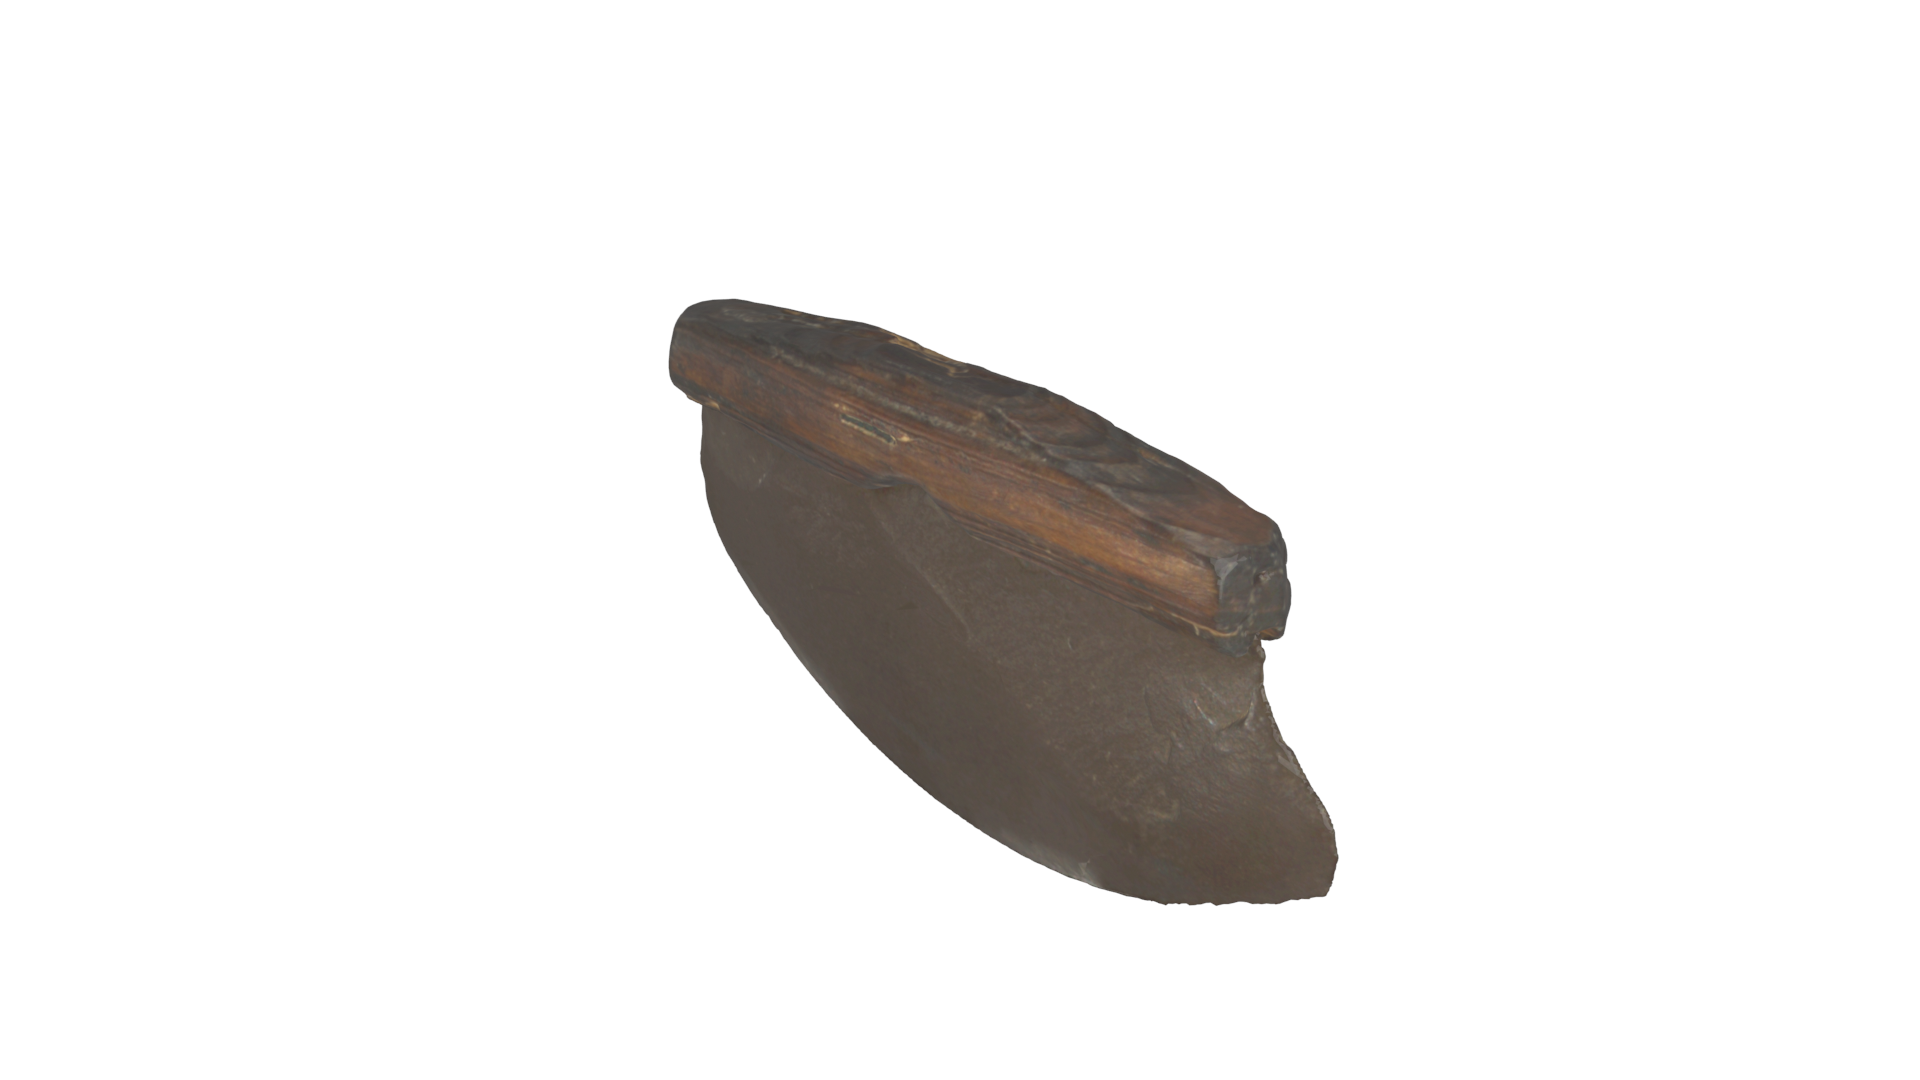
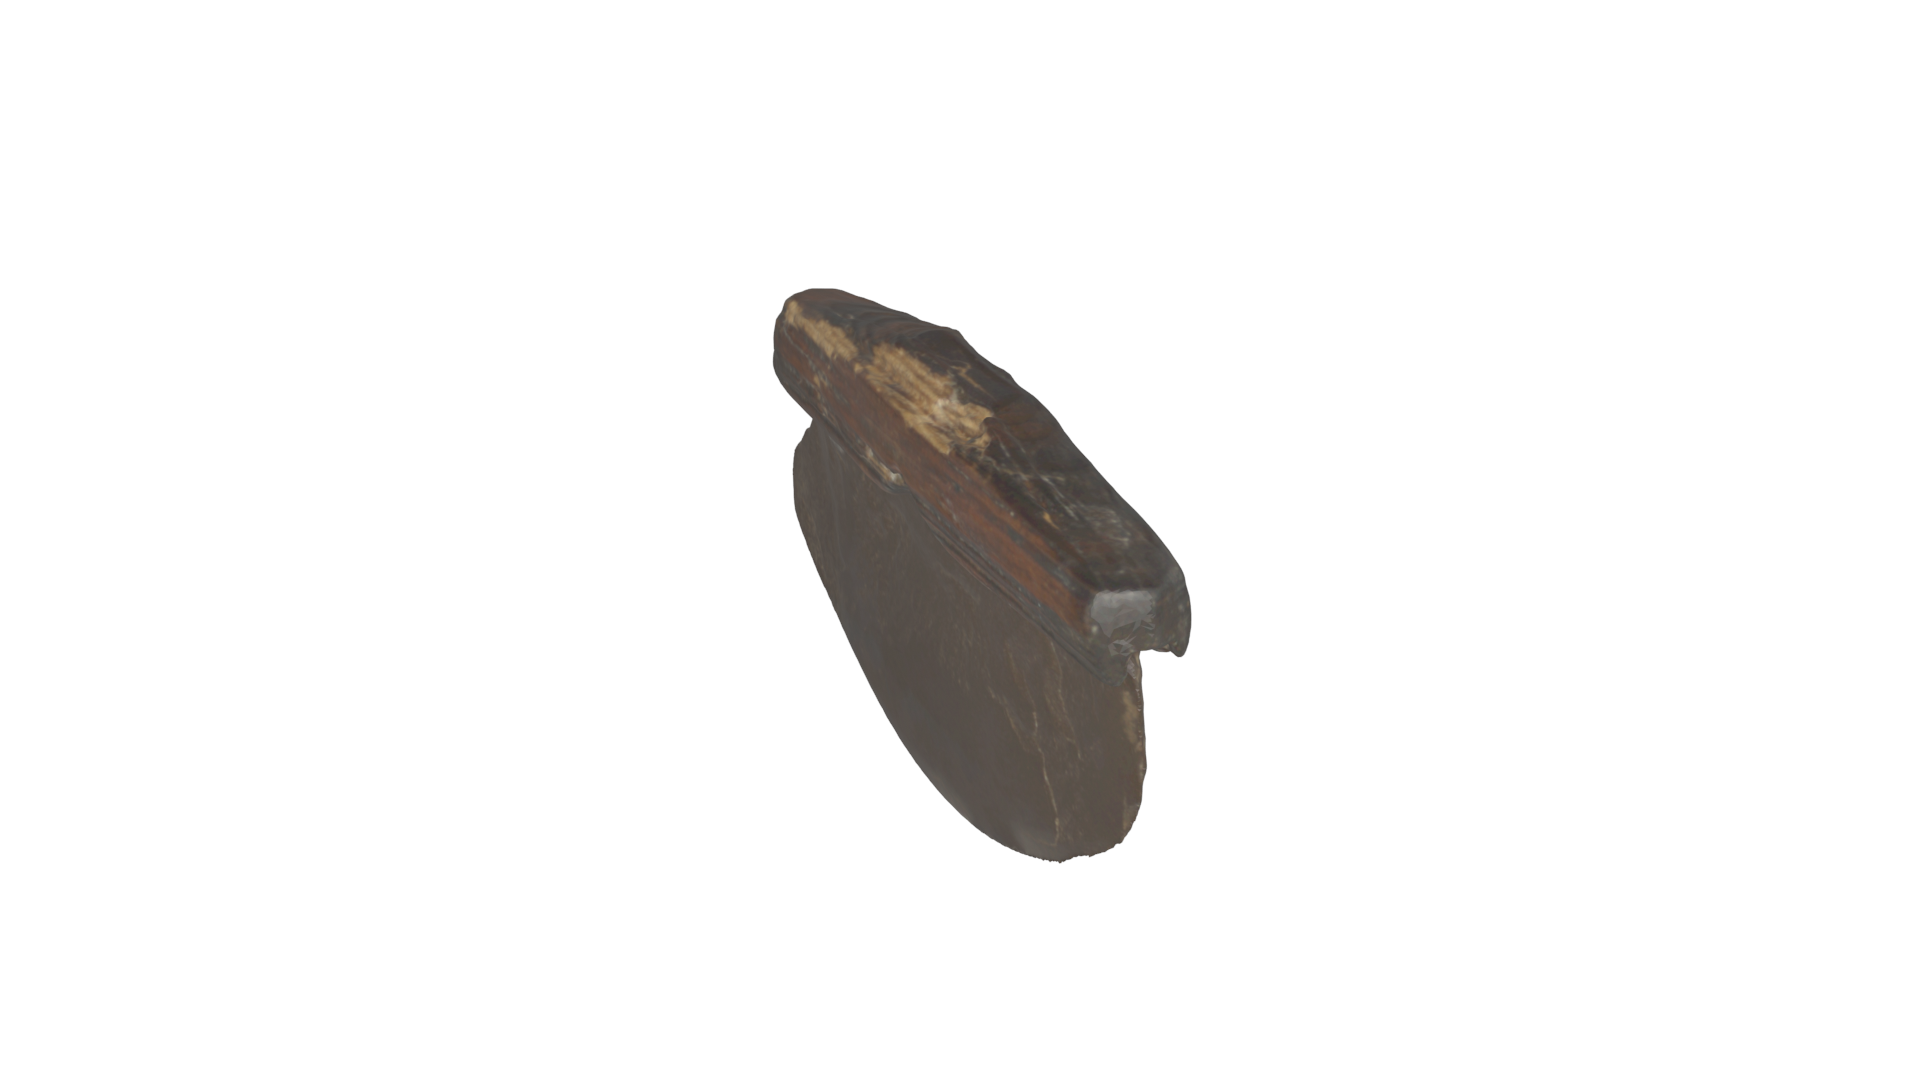
fixed masking in blender.py

Changed region(s): [[0.3438, 0.2444, 0.7188, 0.8556], [0.4688, 0.7028, 0.5, 0.7639]]

diff --git a/blender.py b/blender.py
@@ -1,5 +1,6 @@
 import bpy
 import os
+import random
 
 
 # import one of Alice's cool 3d files
@@ -68,6 +69,13 @@ def resize(path):
 
 resize("Uluaq_12147")
 
+def rotate(path):
+    r=random.uniform(0,360)
+    bpy.ops.object.select_all(action="DESELECT")
+    bpy.data.objects[path].select_set(True)
+    bpy.ops.transform.rotate(value=r)
+
+rotate("Uluaq_12147")
 
 def delete_cube():
     """deletes the cube that is autogenerated by Blender"""
